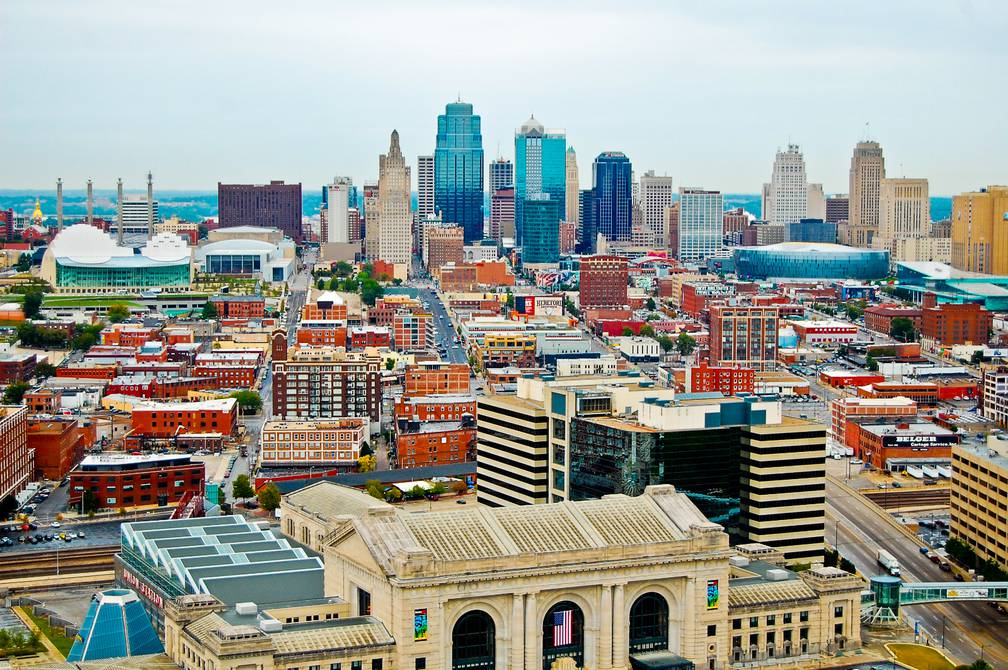
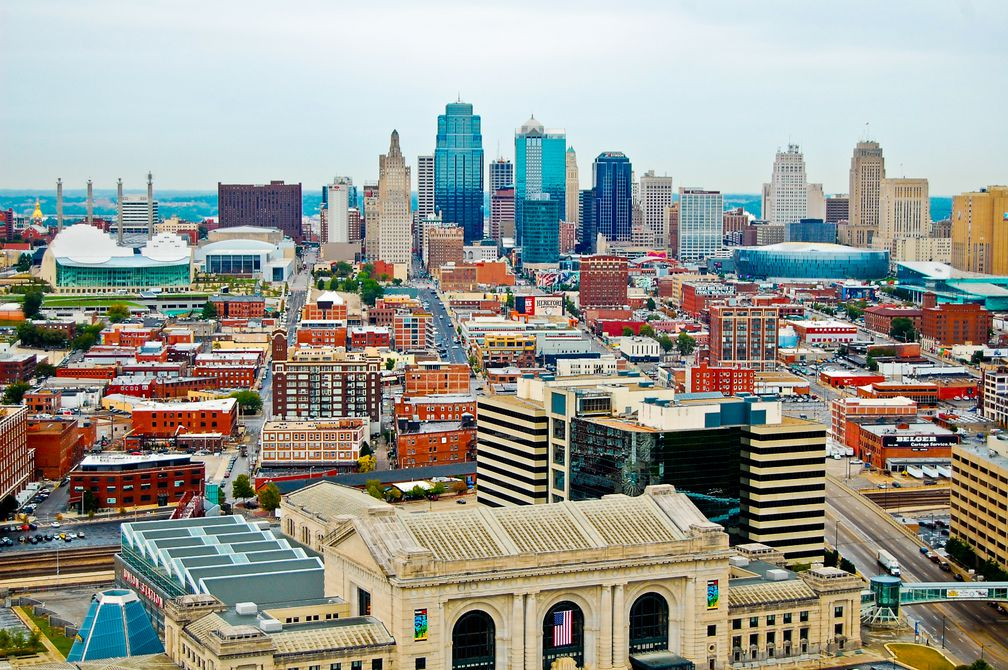
Cleaned up responsive images * Increased image quality * Fixed mobile image bug with fixed backgorund * Fixed medium responsive size image bug

diff --git a/css/main.css b/css/main.css
@@ -519,6 +519,11 @@ body {
   line-height: 20px;
   color: #676b6a;
 }
+@media screen and (max-width: 767px) {
+  body {
+    font-size: 14.4px;
+  }
+}
 h1,
 h2,
 h3,
@@ -543,7 +548,7 @@ h3,
 .h1,
 .h2,
 .h3 {
-  line-height: 40px;
+  line-height: 1.1em;
 }
 h4,
 h5,
@@ -579,15 +584,15 @@ h6,
 }
 .h1-2x {
   font-size: 60px;
-  line-height: 60px;
+  line-height: 1.1em;
 }
 .h2-2x {
   font-size: 48px;
-  line-height: 48px;
+  line-height: 1.1em;
 }
 .h3-2x {
   font-size: 40px;
-  line-height: 40px;
+  line-height: 1.1em;
 }
 .h4-2x {
   font-size: 36px;
@@ -600,6 +605,26 @@ h6,
 .h6-2x {
   font-size: 28px;
   line-height: 28px;
+}
+@media screen and (max-width: 767px) {
+  .h1-2x {
+    font-size: 30px;
+  }
+  .h2-2x {
+    font-size: 24px;
+  }
+  .h3-2x {
+    font-size: 20px;
+  }
+  .h4-2x {
+    font-size: 18px;
+  }
+  .h5-2x {
+    font-size: 16px;
+  }
+  .h6-2x {
+    font-size: 14px;
+  }
 }
 .text-lead {
   margin-bottom: 50px;
@@ -681,6 +706,7 @@ abbr[title] {
 }
 body {
   font-weight: 300;
+  zoom: 1;
 }
 @media screen and (min-width: 768px) {
   body {
@@ -702,7 +728,7 @@ h6,
   font-weight: 300;
 }
 main > div {
-  padding: 50px 0;
+  padding: 25px 0;
   position: relative;
   overflow: hidden;
 }
@@ -857,17 +883,26 @@ nav ul li {
   }
 }
 .section-parallax-img {
-  background-size: 100%;
-  background-position: 0 0;
+  background-size: 120%;
+  background-position: 50%;
   background-repeat: no-repeat;
-  background-attachment: fixed;
   position: relative;
   padding: 0;
-  height: 600px;
+  height: 400px;
+}
+@media screen and (min-width: 768px) {
+  .section-parallax-img {
+    background-attachment: fixed;
+  }
+}
+@media screen and (min-width: 1008px) {
+  .section-parallax-img {
+    background-size: 100%;
+  }
 }
 @media screen and (max-width: 767px) {
   .section-parallax-img {
-    height: 200px;
+    height: 150px;
   }
 }
 .img-venue {

diff --git a/index.html b/index.html
@@ -74,7 +74,7 @@
                 </div>
             </div>
 
-            <div class="section-parallax-img img-venue" id="venue-img" data-stellar-background-ratio="0.1">
+            <div class="section-parallax-img img-venue" id="venue-img" data-stellar-background-ratio="0.5">
             </div>
 
             <!-- ==============================================
@@ -87,7 +87,7 @@
                 </div>
             </div>
 
-            <div class="section-parallax-img img-kc-skyline-day" id="kc-skyline-day" data-stellar-background-ratio="0.1">
+            <div class="section-parallax-img img-kc-skyline-day" id="kc-skyline-day" data-stellar-background-ratio="0.5">
             </div>
 
             <!-- ==============================================
@@ -101,7 +101,7 @@
                 </div>
             </div>
 
-            <div class="section-parallax-img img-kc-skyline-night" id="kc-skyline-night" data-stellar-background-ratio="0.1">
+            <div class="section-parallax-img img-kc-skyline-night" id="kc-skyline-night" data-stellar-background-ratio="0.5">
             </div>
 
             <!-- ==============================================
@@ -150,7 +150,8 @@
                 complete : function () {
                     $.stellar && $.stellar({
                       positionProperty: 'transform',
-                      horizontalScrolling: false
+                      horizontalScrolling: false,
+                      responsive: true
                     });
                 }
             });

diff --git a/less/components/typography.less b/less/components/typography.less
@@ -6,6 +6,10 @@ body {
   font-size: @baseFontSize;
   line-height: @baseLineHeight;
   color: @textColor;
+  
+  @media @small {
+    font-size: @baseFontSize * .8;
+  }
 }
 
 
@@ -24,7 +28,7 @@ h1, h2, h3, h4, h5, h6,
 // Heading Line Heights
 // --------------------------------------------------
 
-h1, h2, h3, .h1, .h2, .h3 { line-height: 40px; }
+h1, h2, h3, .h1, .h2, .h3 { line-height: 1.1em; }
 h4, h5, h6, .h4, .h5, .h6 { line-height: 20px; }
 
 // Heading Sizes
@@ -37,12 +41,22 @@ h4, .h4 { .textsize4(); } // 18px
 h5, .h5 { .textsize5(); } // 16px
 h6, .h6 { .textsize6(); } // 14px
 
-.h1-2x { .textsize1(2); line-height: 60px; } // 60px
-.h2-2x { .textsize2(2); line-height: 48px; } // 48px
-.h3-2x { .textsize3(2); line-height: 40px;} // 40px
+.h1-2x { .textsize1(2); line-height: 1.1em; } // 60px
+.h2-2x { .textsize2(2); line-height: 1.1em; } // 48px
+.h3-2x { .textsize3(2); line-height: 1.1em;} // 40px
 .h4-2x { .textsize4(2); line-height: 36px; } // 36px
 .h5-2x { .textsize5(2); line-height: 32px; } // 32px
 .h6-2x { .textsize6(2); line-height: 28px;} // 28px
+
+
+@media @small {
+  .h1-2x { .textsize1(); }
+  .h2-2x { .textsize2(); }
+  .h3-2x { .textsize3(); }
+  .h4-2x { .textsize4(); }
+  .h5-2x { .textsize5(); }
+  .h6-2x { .textsize6(); }
+}
 
 
 // Type Spacing Classes

diff --git a/less/main.less b/less/main.less
@@ -80,16 +80,23 @@
 }
 
 .section-parallax-img {
-  background-size: 100%;
-  background-position: 0 0;
+  background-size: 120%;
+  background-position: 50%;
   background-repeat: no-repeat;
-  background-attachment: fixed;
   position: relative;
   padding: 0;
-  height: 600px;
+  height: 400px;
+  
+  @media @medium {
+    background-attachment: fixed;
+  }
+  
+  @media @large {
+    background-size: 100%;
+  }
   
   @media @small {
-    height: 200px;
+    height: 150px;
   }
 }
 

diff --git a/Gruntfile.js b/Gruntfile.js
@@ -13,15 +13,15 @@ module.exports = function(grunt) {
           },{
             name: 'medium',
             width: 1008,
-            quality: 70,
+            quality: 80,
           },{
             name: "large",
             width: 1248,
-            quality: 70,
+            quality: 90,
           },{
             name: "xlarge",
             width: 1408,
-            quality: 70,
+            quality: 90,
           }]
         },
         files: [{

diff --git a/less/sections/layout.less b/less/sections/layout.less
@@ -1,5 +1,6 @@
 body {  
   font-weight: 300;
+  zoom: 1;
   
   @media @medium {
     padding-top: 60px;
@@ -12,13 +13,13 @@ h1,h2,h3,h4,h5,h6,
 }
 
 main > div {
-  padding: 50px 0;
+  padding: 25px 0;
   position: relative;
   
   @media @medium {
-    padding: 100px 0;
-      
+    padding: 100px 0;    
   }
+  
   overflow: hidden;
   
   h2 {
